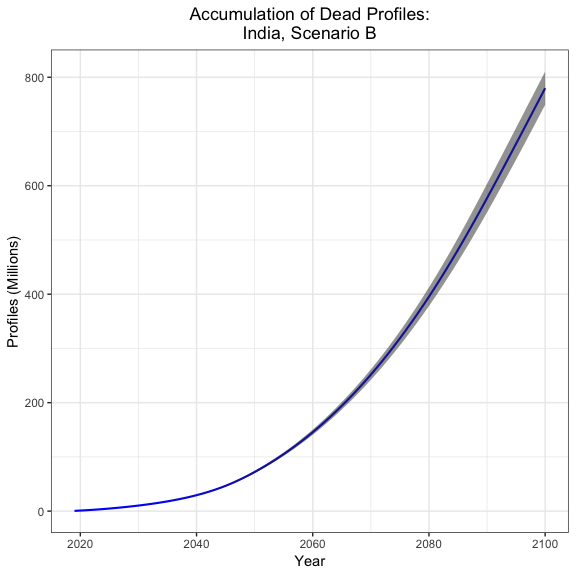
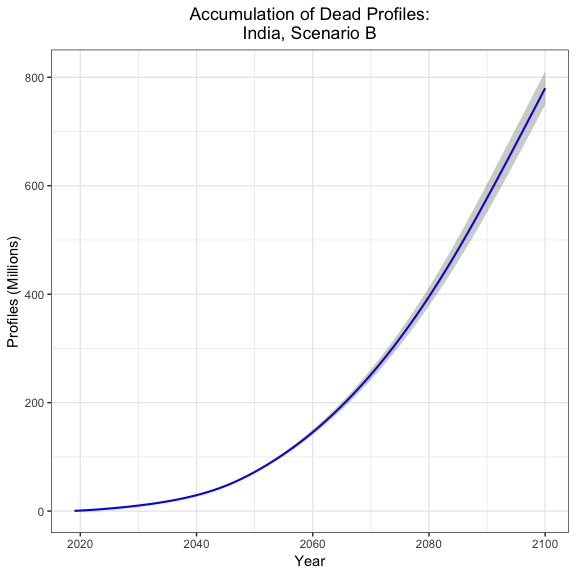
md

diff --git a/README.md b/README.md
@@ -46,7 +46,7 @@ plot_cumsum <- function(country, scenario) {
   # Plot
   ggplot(df, aes(Year, Mean)) + 
     geom_line(size = 0.75, color = 'blue') + 
-    geom_ribbon(aes(ymin = Mean - SE, ymax = Mean + SE), alpha = 0.5) +
+    geom_ribbon(aes(ymin = Mean - SE, ymax = Mean + SE), alpha = 0.25) +
     labs(title = paste0('Accumulation of Dead Profiles:\n',
                         country, ', Scenario ', scenario),
          y = 'Profiles (Millions)') + 
@@ -58,9 +58,7 @@ plot_cumsum <- function(country, scenario) {
 plot_cumsum(country = 'India', scenario = 'B')
 ```
 
-<p align='center'>
-<img src="readme_files/figure-markdown_github/cumsum-1.png" style="display: block; margin: auto;" />
-</p>
+<img src="README_files/figure-markdown_github/cumsum-1.png" style="display: block; margin: auto;" />
 
 We can also plot growth curves for living and dead users for any country-scenario.
 
@@ -87,7 +85,7 @@ plot_status <- function(country, scenario) {
   # Plot
   ggplot(df, aes(Year, Mean, group = Status)) + 
     geom_line(aes(color = Status), size = 0.75) + 
-    geom_ribbon(aes(ymin = Mean - SE, ymax = Mean + SE), alpha = 0.5) + 
+    geom_ribbon(aes(ymin = Mean - SE, ymax = Mean + SE), alpha = 0.25) + 
     labs(title = paste0('Facebook Profiles:\n', 
                         country, ', Scenario ', scenario),
          y = 'Profiles (Millions)') + 
@@ -99,9 +97,7 @@ plot_status <- function(country, scenario) {
 plot_status(country = 'Brazil', scenario = 'A')
 ```
 
-<p align='center'>
-<img src="readme_files/figure-markdown_github/live_dead-1.png" style="display: block; margin: auto;" />
-</p>
+<img src="README_files/figure-markdown_github/live_dead-1.png" style="display: block; margin: auto;" />
 
 According to our projections, the dead will outnumber the living on Facebook in Brazil sometime around 2069.
 
